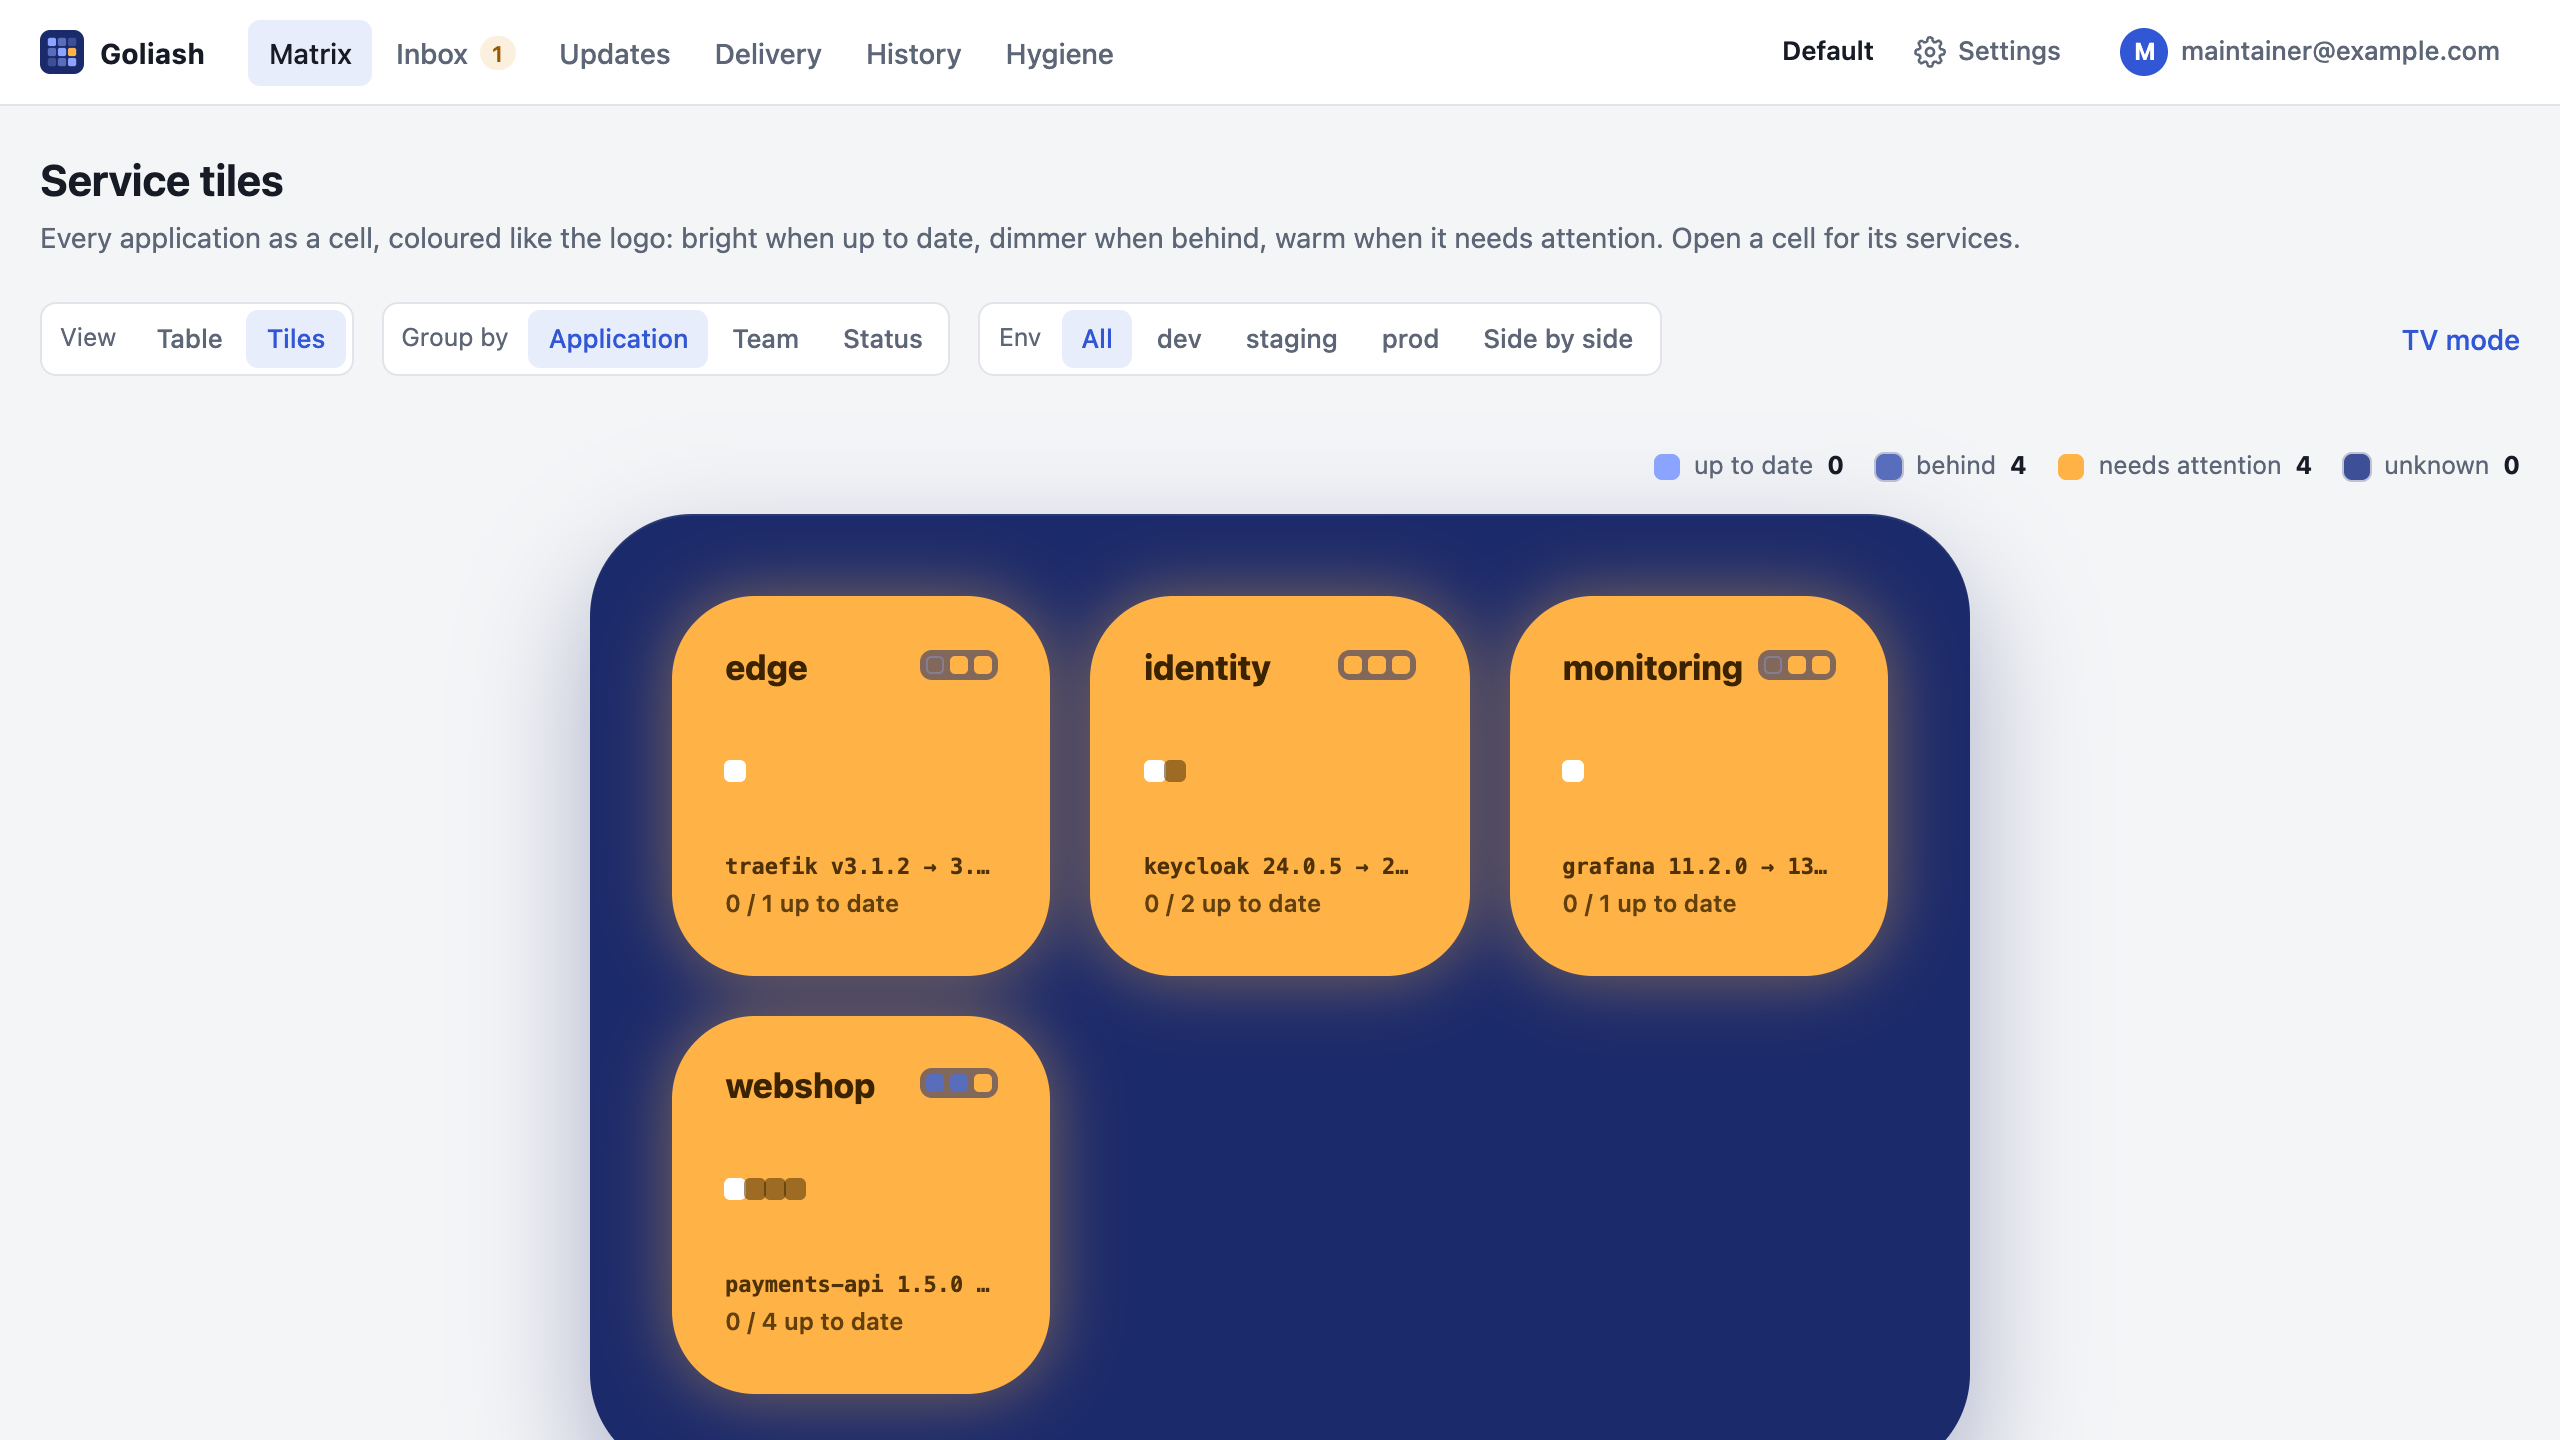
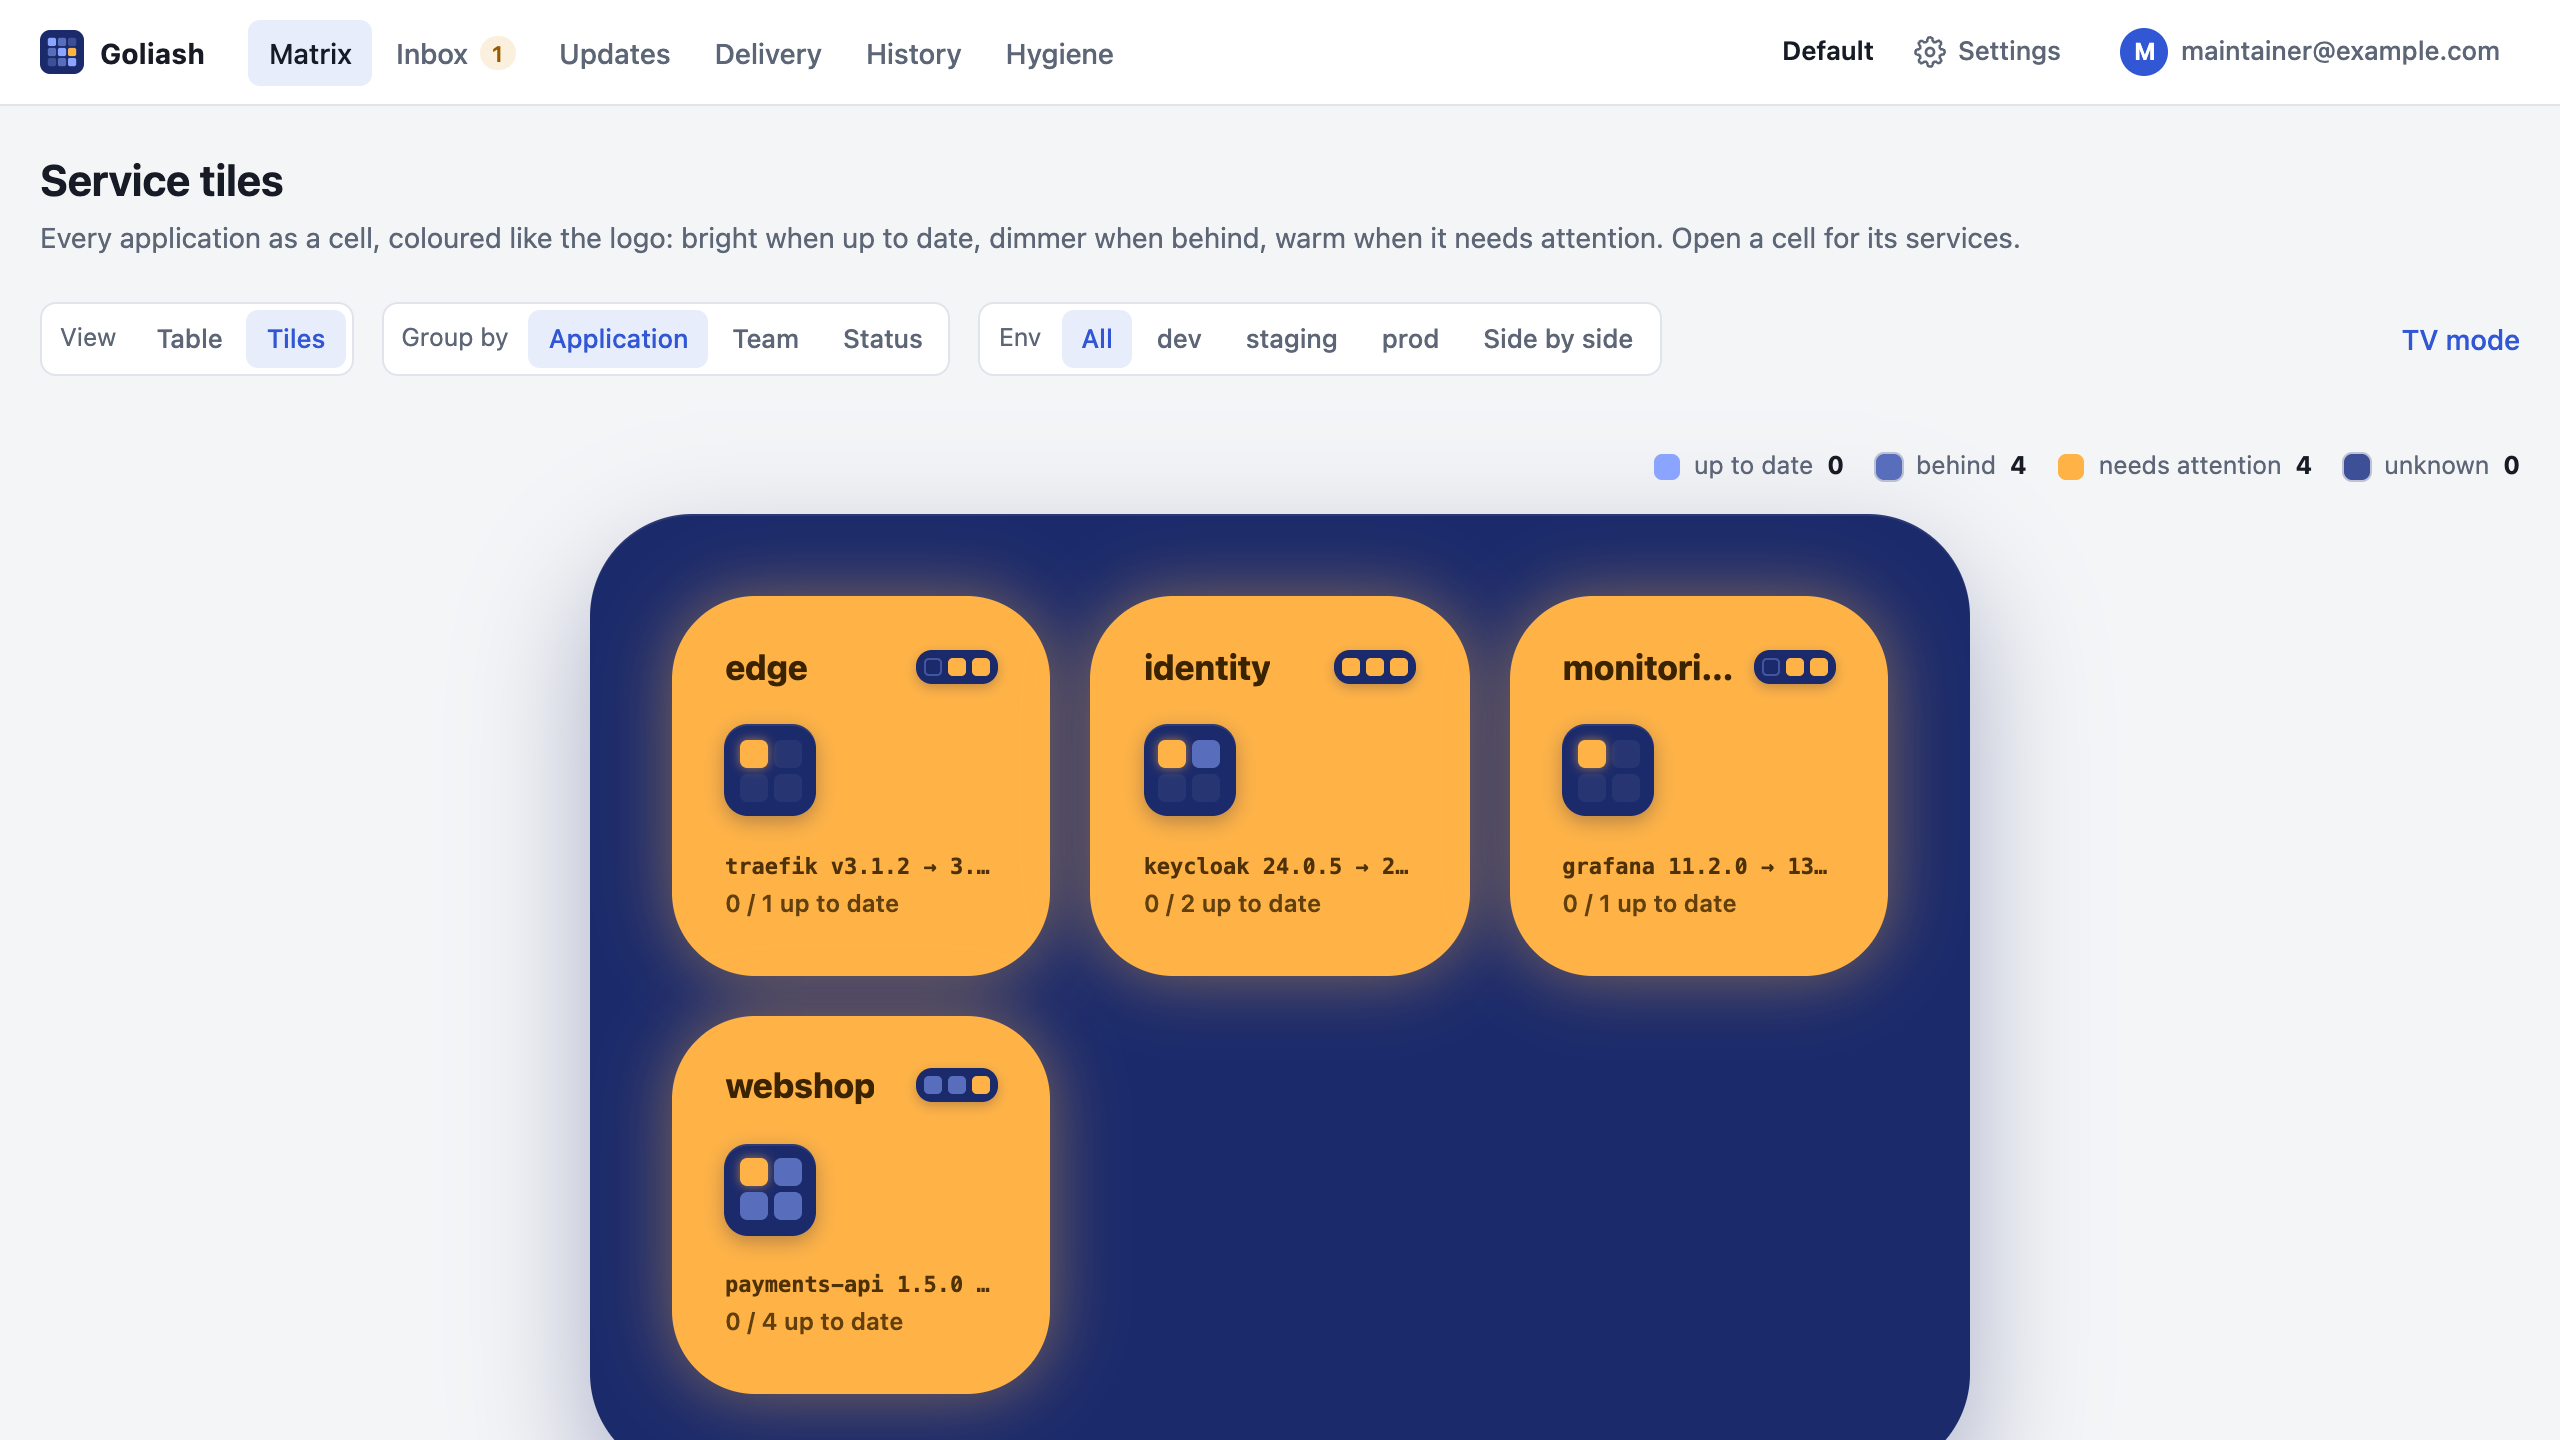
feat(ui): tiles card navigation docs and screenshot; names on one line

diff --git a/internal/ui/static/app.css b/internal/ui/static/app.css
@@ -588,7 +588,7 @@ table.updates td.update-actions { width: 1%; white-space: nowrap; text-align: ri
 .board-cell.s-behind { background: color-mix(in srgb, var(--logo-cell) 55%, var(--logo-bg)); color: #eef1ff; }
 .board-cell.s-unknown { background: color-mix(in srgb, var(--logo-cell) 30%, var(--logo-bg)); color: #c9d2ff; }
 .board-cell.s-attention { background: var(--logo-warm); color: #3b2300; box-shadow: 0 0 34px rgb(255 179 71 / 0.45); }
-.board-name { font-weight: 750; font-size: clamp(12px, 1.35vw, 17px); line-height: 1.15; overflow-wrap: anywhere; }
+.board-name { font-weight: 750; font-size: clamp(12px, 1.35vw, 17px); line-height: 1.15; min-width: 0; white-space: nowrap; overflow: hidden; text-overflow: ellipsis; }
 .board-sub { font-size: clamp(10px, 0.95vw, 12px); font-weight: 600; opacity: 0.8; }
 .board-foot { display: flex; flex-direction: column; gap: 2px; min-width: 0; }
 .board-headline { font: 600 11px/1.3 var(--mono); opacity: 0.9; overflow: hidden; text-overflow: ellipsis; white-space: nowrap; }

diff --git a/website/src/content/docs/guide/matrix.md b/website/src/content/docs/guide/matrix.md
@@ -56,11 +56,12 @@ to compare with, and warm means it needs attention: end of life, or targets disa
 
 ![Service tiles: applications as cells of a navy board, coloured by how current they are, each with a strip of its state per environment](../../../assets/tiles.png)
 
-- **Each cell** shows its services as dots, its most urgent upgrade, how many services are up to date, and a strip with
+- **Each cell** shows its services as a small logo, one cell per service in its colour, its most urgent upgrade, how many services are up to date, and a strip with
   one square per environment in its state there. Applications with four services or more take a double cell once a
   board has six or more.
-- **Open a cell** for the same board for that application, one cell per service. *All applications* at the top leads
-  back. Open a service for its versions per environment, the newest release with its notes, its drift and a link to
+- **Open a cell** and its board is laid over the global one like a card, one cell per service; the global board stays
+  behind, dimmed, with the application marked, and its cells open the other applications directly. × or Escape lays
+  the card down again. Open a service for its versions per environment, the newest release with its notes, its drift and a link to
   its page; Escape closes it.
 - **Env** colours the board for one environment. **Side by side** draws one board per environment with every
   application in the same place, so you can see at a glance where prod lags behind staging.
